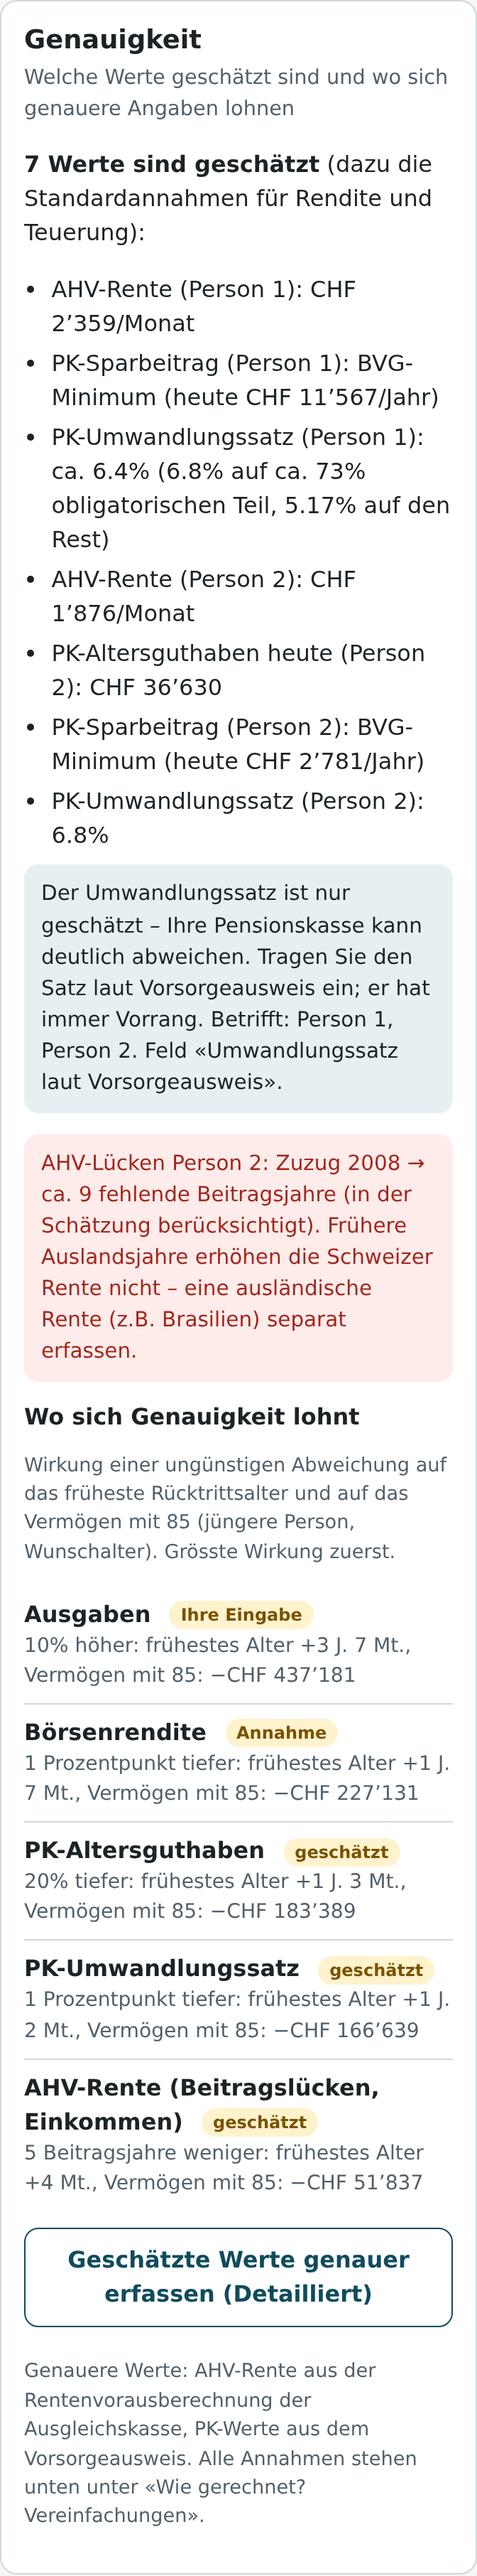
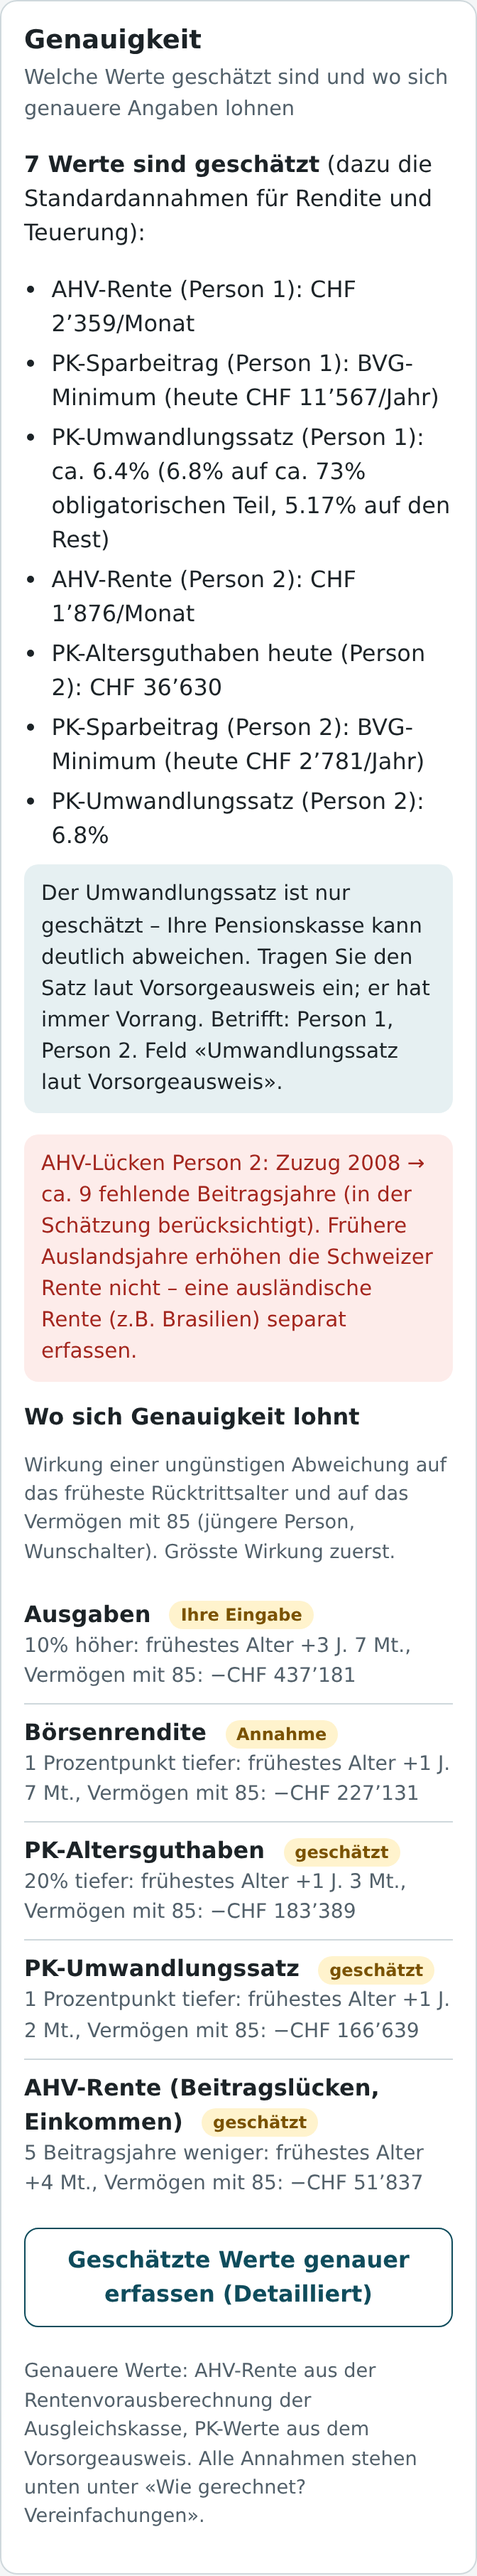
Umwandlungssatz-Schätzung ohne obligatorischen Teil: klarer Text statt «ca. 0%»

Changed region(s): [[0.6562, 0.6548, 0.6875, 0.686], [0.5625, 0.6548, 0.5938, 0.686]]

diff --git a/src/ui/texte.ts b/src/ui/texte.ts
@@ -27,12 +27,20 @@ export const UWS_HILFE = (mindest: string) =>
 export const UWS_GESCHAETZT =
   'Der Umwandlungssatz ist nur geschätzt – Ihre Pensionskasse kann deutlich abweichen. Tragen Sie den Satz laut Vorsorgeausweis ein; er hat immer Vorrang.';
 
+const OHNE_OBLIGATORIUM_GRUND: Record<NonNullable<UmwandlungssatzSchaetzung['ohneObligatorium']>, string> = {
+  keinLohn: 'kein Lohn angegeben',
+  unterSchwelle: 'Lohn unter der BVG-Eintrittsschwelle',
+  andere: 'keine BVG-Gutschriften bis zum Referenzalter',
+};
+
 /** Aufteilung der Umwandlungssatz-Schätzung, z.B. für den Hinweis beim leeren Feld. */
 export function uwsSchaetzungText(u: UmwandlungssatzSchaetzung): string {
   const anteil = Math.round(u.anteilObligatorium * 100);
   const basis = u.bvgGuthabenEingegeben
     ? 'BVG-Altersguthaben laut Vorsorgeausweis'
     : 'geschätzt aus BVG-Mindestgutschriften';
+  if (u.ohneObligatorium !== null)
+    return `Schätzung: kein obligatorischer Teil geschätzt (${OHNE_OBLIGATORIUM_GRUND[u.ohneObligatorium]}), ${fmtProzent(u.satzUeberobligatorium, 2)} auf das ganze Guthaben.`;
   if (u.anteilObligatorium >= 0.995)
     return `Schätzung: ${fmtProzent(u.satzObligatorium)} – das Guthaben ist voraussichtlich ganz obligatorisch (${basis}).`;
   return `Schätzung: ${fmtProzent(u.satzObligatorium)} auf den obligatorischen Teil (ca. ${anteil}%, ${basis}), ${fmtProzent(u.satzUeberobligatorium, 2)} auf den Rest, ergibt ca. ${fmtProzent(u.satz)}.`;
@@ -40,13 +48,15 @@ export function uwsSchaetzungText(u: UmwandlungssatzSchaetzung): string {
 
 /** Kurzform für die Liste der Schätzwerte (Karte «Genauigkeit»). */
 export function uwsKurz(satz: number, u: UmwandlungssatzSchaetzung | undefined): string {
+  if (u?.ohneObligatorium)
+    return `${fmtProzent(satz, 2)} auf das ganze Guthaben (kein obligatorischer Teil geschätzt: ${OHNE_OBLIGATORIUM_GRUND[u.ohneObligatorium]})`;
   if (!u || u.anteilObligatorium >= 0.995) return fmtProzent(satz);
   return `ca. ${fmtProzent(satz)} (${fmtProzent(u.satzObligatorium)} auf ca. ${Math.round(u.anteilObligatorium * 100)}% obligatorischen Teil, ${fmtProzent(u.satzUeberobligatorium, 2)} auf den Rest)`;
 }
 
 /** Quelle der Umwandlungssatz-Schätzung (kurz, für die Oberfläche). */
 export const UWS_QUELLE = (u: UmwandlungssatzSchaetzung) =>
-  `${fmtProzent(u.satzObligatorium)}: gesetzliches Minimum fürs Obligatorium (Art. 14 BVG). ${fmtProzent(u.satzUeberobligatorium, 2)}: durchschnittlicher Umwandlungssatz der Pensionskassen mit 65 (OAK BV, Bericht zur finanziellen Lage 2025, Stand 31.12.2025) – ein umhüllender Satz, den die Kassen aufs ganze Guthaben anwenden; hier nur für den überobligatorischen Rest verwendet.`;
+  `${fmtProzent(u.satzObligatorium)}: gesetzliches Minimum fürs Obligatorium (Art. 14 BVG). ${fmtProzent(u.satzUeberobligatorium, 2)}: durchschnittlicher Umwandlungssatz der Pensionskassen mit 65 (OAK BV, Bericht zur finanziellen Lage 2025, Stand 31.12.2025) – ein umhüllender Satz, den die Kassen aufs ganze Guthaben anwenden; ${u.ohneObligatorium !== null ? 'hier mangels obligatorischem Teil ebenfalls auf das ganze Guthaben' : 'hier nur für den überobligatorischen Rest verwendet'}.`;
 
 export const VEREINFACHUNGEN: readonly string[] = [
   VEREINFACHUNG_BOERSE,

diff --git a/src/ui/texte.test.ts b/src/ui/texte.test.ts
@@ -1,0 +1,48 @@
+import { describe, expect, it } from 'vitest';
+import { effektiverHaushalt } from '../core/schaetzwerte';
+import type { Person } from '../core/typen';
+import { neuePerson, standardHaushalt } from '../data/defaults';
+import { ladeRegeln } from '../rules';
+import { uwsKurz, uwsSchaetzungText } from './texte';
+
+const regeln = ladeRegeln(2026);
+const heute = { jahr: 2026, monat: 9 };
+
+function schaetzung(lohn: number, guthaben: number) {
+  const p: Person = neuePerson(regeln, { geburtsjahr: 1972, lohn, manuell: { pkGuthaben: true } });
+  p.pk = { ...p.pk, guthaben };
+  const e = effektiverHaushalt({ ...standardHaushalt(regeln), personen: [p] }, regeln, heute);
+  const u = e.umwandlungssatz[0];
+  if (!u) throw new Error('keine Schätzung');
+  return { u, satz: e.werte[0]?.pkUmwandlungssatz ?? 0 };
+}
+
+describe('Text der Umwandlungssatz-Schätzung ohne obligatorischen Teil', () => {
+  it('PK-Guthaben, Lohn 0 → «kein obligatorischer Teil geschätzt (kein Lohn angegeben)», kein «ca. 0%»', () => {
+    const { u, satz } = schaetzung(0, 650000);
+    expect(u.anteilObligatorium).toBe(0);
+    expect(u.ohneObligatorium).toBe('keinLohn');
+    const t = uwsSchaetzungText(u);
+    expect(t).toContain('kein obligatorischer Teil geschätzt (kein Lohn angegeben)');
+    expect(t).toContain('5.17% auf das ganze Guthaben');
+    expect(t).not.toMatch(/ca\. 0%/);
+    // Karte «Genauigkeit»
+    const k = uwsKurz(satz, u);
+    expect(k).toContain('5.17% auf das ganze Guthaben');
+    expect(k).toContain('kein Lohn angegeben');
+    expect(k).not.toMatch(/ca\. 0%/);
+  });
+
+  it('Lohn unter der Eintrittsschwelle → eigener Grund', () => {
+    const { u } = schaetzung(15000, 100000);
+    expect(u.ohneObligatorium).toBe('unterSchwelle');
+    expect(uwsSchaetzungText(u)).toContain('Lohn unter der BVG-Eintrittsschwelle');
+  });
+
+  it('mit Lohn über der Schwelle → weiterhin die Aufteilung', () => {
+    const { u, satz } = schaetzung(150000, 650000);
+    expect(u.ohneObligatorium).toBeNull();
+    expect(uwsSchaetzungText(u)).toMatch(/auf den obligatorischen Teil \(ca\. \d+%/);
+    expect(uwsKurz(satz, u)).toContain('auf den Rest');
+  });
+});

diff --git a/src/core/schaetzwerte.ts b/src/core/schaetzwerte.ts
@@ -121,6 +121,11 @@ export interface UmwandlungssatzSchaetzung {
   bvgGuthabenHeute: number;
   /** true: BVG-Altersguthaben laut Vorsorgeausweis eingegeben (Detailfeld) */
   bvgGuthabenEingegeben: boolean;
+  /**
+   * Warum kein obligatorischer Teil geschätzt wird (nur wenn der Anteil 0 ist):
+   * 'keinLohn' = Lohn 0, 'unterSchwelle' = Lohn unter der BVG-Eintrittsschwelle, 'andere' = sonst.
+   */
+  ohneObligatorium: 'keinLohn' | 'unterSchwelle' | 'andere' | null;
 }
 
 /**
@@ -162,6 +167,8 @@ export function schaetzeUmwandlungssatz(
     anteilObligatorium: anteil,
     bvgGuthabenHeute: Math.round(b0),
     bvgGuthabenEingegeben: eingegeben,
+    ohneObligatorium:
+      anteil > 0 ? null : !(p.lohn > 0) ? 'keinLohn' : p.lohn < bvg.eintrittsschwelle ? 'unterSchwelle' : 'andere',
   };
 }
 
